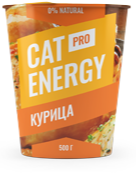
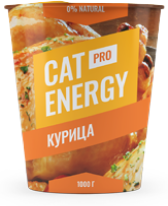
изменяет размеры карточек в каталоге

diff --git a/source/catalog.html b/source/catalog.html
@@ -5,6 +5,11 @@
   <meta charset="UTF-8">
   <title>Cat-energy</title>
   <meta name="viewport" content="width=device-width,initial-scale=1">
+  <link rel="icon" href="favicon.ico">
+  <link rel="icon" href="favicons/icon.svg" type="image/svg+xml">
+  <link rel="icon" href="favicons/favicon-32x32.png" type="image/png" sizes="32x32">
+  <link rel="apple-touch-icon" href="favicons/favicon-180x180.png" type="image/png" sizes="180x180">
+  <link rel="manifest" href="manifest.webmanifest">
   <link rel="stylesheet" href="styles/styles.css">
   <script src="scripts/index.js" defer></script>
 </head>
@@ -14,8 +19,16 @@
     <nav class="navigation">
       <div class="navigation__wrapper">
         <a class="navigation__logo" href="#">
-          <img class="navigation__logo-image" src="#" width="33" height="38" alt="Графический логотип компании Cat-energy">
-          <img class="navigation__logo-text" width="101" height="18" src="#" alt="Словесный логотип компании Cat-energy">
+          <picture>
+            <source type="image/svg+xml" media="(min-width: 1440px)" width="70" height="59" srcset="images/logo/logo-desktop.svg">
+            <source type="image/svg+xml" media="(min-width: 768px)" width="60" height="50" srcset="images/logo/logo-tablet.svg">
+            <img class="navigation__logo-image" src="images/logo/logo-mobile.svg" width="33" height="38" alt="Графический логотип компании Cat-energy">
+          </picture>
+          <picture>
+            <source type="image/svg+xml" media="(min-width: 1440px)" width="118" height="21" srcset="images/logo/logo-tablet-text.svg">
+            <source type="image/svg+xml" media="(min-width: 768px)" width="101" height="18" srcset="images/logo/logo-tablet-text.svg">
+            <img class="navigation__logo-image" src="images/logo/logo-mobile-text.svg" width="101" height="18" alt="Графический логотип компании Cat-energy">
+          </picture>
         </a>
         <button class="navigation__toogle" type="button">
           <span class="visually-hidden">Переключить меню</span>
@@ -41,7 +54,11 @@
       <ul class="product__list">
         <li class="product__item">
           <a class="product__link" href="#">
-            <img class="product__image" width="68" height="86" src="#" alt="cat-energy со вкусом курицы, вес 500 грамм">
+            <picture>
+              <source type="image/png" media="(min-width: 1440px)" width="161" height="172" srcset="images/catalog-items/chiken-500-tablet-desktop@1x.png 1x, images/catalog-items/chiken-500-tablet-desktop@2x.png 2x">
+              <source type="image/png" media="(min-width: 768px)" width="161" height="172" srcset="images/catalog-items/chiken-500-tablet-desktop@1x.png 1x, images/catalog-items/chiken-500-tablet-desktop@2x.png 2x">
+              <img class="product__image" src="images/catalog-items/chiken-500-mobile@1x.png" srcset="images/catalog-items/chiken-500-mobile@2x.png 2x" width="68" height="86" alt="cat-energy со вкусом курицы, вес 500 грамм">
+            </picture>
           </a>
           <div class="product__wrapper">
             <a class="product__link" href="#">
@@ -62,7 +79,11 @@
         </li>
         <li class="product__item">
           <a class="product__link" href="#">
-            <img class="product__image" width="84" height="100" src="#" alt="cat-energy со вкусом курицы, вес 1000 грамм">
+            <picture>
+              <source type="image/png" media="(min-width: 1440px)" width="172" height="196" srcset="images/catalog-items/chiken-1000-tablet-desktop@1x.png 1x, images/catalog-items/chiken-1000-tablet-desktop@2x.png 2x">
+              <source type="image/png" media="(min-width: 768px)" width="168" height="206" srcset="images/catalog-items/chiken-1000-tablet-desktop@1x.png 1x, images/catalog-items/chiken-1000-tablet-desktop@2x.png 2x">
+              <img class="product__image" src="images/catalog-items/chiken-1000-mobile@1x.png" srcset="images/catalog-items/chiken-1000-mobile@2x.png 2x" width="84" height="100" alt="cat-energy со вкусом курицы, вес 1000 грамм">
+            </picture>
           </a>
           <div class="product__wrapper">
             <a class="product__link" href="#">
@@ -83,7 +104,11 @@
         </li>
         <li class="product__item">
           <a class="product__link" href="#">
-            <img class="product__image" width="68" height="86" src="#" alt="cat-energy со вкусом рыбы, вес 500 грамм">
+            <picture>
+              <source type="image/png" media="(min-width: 1440px)" width="163" height="174" srcset="images/catalog-items/fish-500-tablet-desktop@1x.png 1x, images/catalog-items/fish-500-tablet-desktop@2x.png 2x">
+              <source type="image/png" media="(min-width: 768px)" width="163" height="174" srcset="images/catalog-items/fish-500-tablet-desktop@1x.png 1x, images/catalog-items/fish-500-tablet-desktop@2x.png 2x">
+              <img class="product__image" src="images/catalog-items/fish-500-mobile@1x.png" srcset="images/catalog-items/fish-500-mobile@2x.png 2x" width="68" height="86" alt="cat-energy со вкусом рыбы, вес 500 грамм">
+            </picture>
           </a>
           <div class="product__wrapper">
             <a class="product__link" href="#">
@@ -104,7 +129,11 @@
         </li>
         <li class="product__item">
           <a class="product__link" href="#">
-            <img class="product__image" width="84" height="100" src="#" alt="cat-energy со вкусом рыбы, вес 1000 грамм">
+            <picture>
+              <source type="image/png" media="(min-width: 1440px)" width="172" height="196" srcset="images/catalog-items/fish-1000-tablet-desktop@1x.png 1x, images/catalog-items/fish-1000-tablet-desktop@2x.png 2x">
+              <source type="image/png" media="(min-width: 768px)" width="168" height="200" srcset="images/catalog-items/fish-1000-tablet-desktop@1x.png 1x, images/catalog-items/fish-1000-tablet-desktop@2x.png 2x">
+              <img class="product__image" src="images/catalog-items/fish-1000-mobile@1x.png" srcset="images/catalog-items/fish-1000-mobile@2x.png 2x" width="84" height="100" alt="cat-energy со вкусом рыбы, вес 500 грамм">
+            </picture>
           </a>
           <div class="product__wrapper">
             <a class="product__link" href="#">
@@ -125,7 +154,11 @@
         </li>
         <li class="product__item">
           <a class="product__link" href="#">
-            <img class="product__image" width="68" height="86" src="#" alt="cat-energy со вкусом гречки, вес 500 грамм">
+            <picture>
+              <source type="image/png" media="(min-width: 1440px)" width="161" height="171" srcset="images/catalog-items/buckwheat-500-tablet-desktop@1x.png 1x, images/catalog-items/buckwheat-500-tablet-desktop@2x.png 2x">
+              <source type="image/png" media="(min-width: 768px)" width="161" height="171" srcset="images/catalog-items/buckwheat-500-tablet-desktop@1x.png 1x, images/catalog-items/buckwheat-500-tablet-desktop@2x.png 2x">
+              <img class="product__image" src="images/catalog-items/buckwheat-500-mobile@1x.png" srcset="images/catalog-items/buckwheat-500-mobile@2x.png 2x" width="68" height="86" alt="cat-energy со вкусом гречки, вес 500 грамм">
+            </picture>
           </a>
           <div class="product__wrapper">
             <a class="product__link" href="#">
@@ -146,7 +179,11 @@
         </li>
         <li class="product__item">
           <a class="product__link" href="#">
-            <img class="product__image" width="84" height="100" src="#" alt="cat-energy со вкусом гречки, вес 1000 грамм">
+            <picture>
+              <source type="image/png" media="(min-width: 1440px)" width="172" height="196" srcset="images/catalog-items/buckwheat-1000-tablet-desktop@1x.png 1x, images/catalog-items/buckwheat-1000-tablet-desktop@2x.png 2x">
+              <source type="image/png" media="(min-width: 768px)" width="186" height="200" srcset="images/catalog-items/buckwheat-1000-tablet-desktop@1x.png 1x, images/catalog-items/buckwheat-1000-tablet-desktop@2x.png 2x">
+              <img class="product__image" src="images/catalog-items/buckwheat-1000-mobile@1x.png" srcset="images/catalog-items/buckwheat-1000-mobile@2x.png 2x" width="84" height="100" alt="cat-energy со вкусом гречки, вес 1000 грамм">
+            </picture>
           </a>
           <div class="product__wrapper">
             <a class="product__link" href="#">
@@ -165,7 +202,11 @@
         </li>
         <li class="product__item">
           <a class="product__link" href="#">
-            <img class="product__image" width="68" height="86" src="#" alt="cat-energy со вкусом риса, вес 500 грамм">
+            <picture>
+              <source type="image/png" media="(min-width: 1440px)" width="163" height="174" srcset="images/catalog-items/rice-500-tablet-desktop@1x.png 1x, images/catalog-items/rice-500-tablet-desktop@2x.png 2x">
+              <source type="image/png" media="(min-width: 768px)" width="163" height="174" srcset="images/catalog-items/rice-500-tablet-desktop@1x.png 1x, images/catalog-items/rice-500-tablet-desktop@2x.png 2x">
+              <img class="product__image" src="images/catalog-items/rice-500-mobile@1x.png" srcset="images/catalog-items/rice-500-mobile@2x.png 2x" width="68" height="86" alt="cat-energy со вкусом риса, вес 500 грамм">
+            </picture>
           </a>
           <div class="product__wrapper">
             <a class="product__link" href="#">

diff --git a/source/index.html b/source/index.html
@@ -8,7 +8,7 @@
   <link rel="icon" href="favicon.ico">
   <link rel="icon" href="favicons/icon.svg" type="image/svg+xml">
   <link rel="icon" href="favicons/favicon-32x32.png" type="image/png" sizes="32x32">
-  <link rel="apple-touch-icon" href="favicons/180.png" type="image/png" sizes="180x180">
+  <link rel="apple-touch-icon" href="favicons/favicon-180x180.png" type="image/png" sizes="180x180">
   <link rel="manifest" href="manifest.webmanifest">
   <link rel="stylesheet" href="styles/styles.css">
   <script src="scripts/index.js" defer></script>
@@ -18,11 +18,18 @@
   <header class="main-header">
     <nav class="navigation">
       <div class="navigation__wrapper">
-        <picture>
-          <a class="navigation__logo" href="#">
-            <img class="navigation__logo-image" src="source/images/logo/logo-mobile.svg" width="33" height="38" alt="Графический логотип компании Cat-energy">
-          </a>
-        </picture>
+        <a class="navigation__logo" href="#">
+          <picture>
+            <source type="image/svg+xml" media="(min-width: 1440px)" width="70" height="59" srcset="images/logo/logo-desktop.svg">
+            <source type="image/svg+xml" media="(min-width: 768px)" width="60" height="50" srcset="images/logo/logo-tablet.svg">
+            <img class="navigation__logo-image" src="images/logo/logo-mobile.svg" width="33" height="38" alt="Графический логотип компании Cat-energy">
+          </picture>
+          <picture>
+            <source type="image/svg+xml" media="(min-width: 1440px)" width="118" height="21" srcset="images/logo/logo-desktop.svg">
+            <source type="image/svg+xml" media="(min-width: 768px)" width="101" height="18" srcset="images/logo/logo-tablet-text.svg">
+            <img class="navigation__logo-image" src="images/logo/logo-mobile-text.svg" width="101" height="18" alt="Графический логотип компании Cat-energy">
+          </picture>
+        </a>
         <button class="navigation__toogle" type="button">
           <span class="visually-hidden">Переключить меню</span>
         </button>
@@ -47,7 +54,11 @@
           Функциональное питание для котов
         </h1>
         <p class="hero__slogan">Занялся собой? Займись котом!</p>
-        <img class="hero__image" src="#" width="280" height="270" alt="Питание для котов cat-energy со вкусом курицы">
+        <picture>
+          <source type="image/png" media="(min-width: 1440px)" width="552" height="499" srcset="images/hero-product/hero-product-desktop@1x.png 1x, images/hero-product/hero-product-desktop@2x.png 2x">
+          <source type="image/png" media="(min-width: 768px)" width="709" height="609" srcset="images/hero-product/hero-product-tablet@1x.png 1x, images/hero-product/hero-product-tablet@2x.png 2x">
+          <img class="hero__image" src="images/hero-product/hero-product-mobile@1x.png" srcset="images/hero-product/hero-product-mobile@2x.png 2x" width="280" height="270" alt="Питание для котов cat-energy со вкусом курицы">
+        </picture>
         <a class="hero__link button" href="#">подобрать программу</a>
       </div>
     </section>
@@ -105,7 +116,14 @@
         </dl>
         <p class="example__total">Затраты на питание: 15 000 РУБ.</p>
         <div class="slider">
-          <img class="slider__image" src="#" width="280" height="256" alt="сравнение вида кота до диеты и после">
+          <picture>
+            <source type="image/png" media="(min-width: 768px)" width="560" height="512" srcset="images/slider/slider-tablet-desktop-before@1x.png 1x, images/slider/slider-tablet-desktop-before@2x.png 2x">
+            <img class="slider__image" src="images/slider/slider-mobile-before@1x.png" srcset="images/slider/slider-mobile-before@2x.png 2x" width="280" height="256" alt="сравнение: вид кота до диеты - толстый">
+          </picture>
+          <picture>
+            <source type="image/png" media="(min-width: 768px)" width="560" height="512" srcset="images/slider/slider-tablet-desktop-after@1x.png 1x, images/slider/slider-tablet-desktop-after@2x.png 2x">
+            <img class="slider__image" src="images/slider/slider-mobile-after@1x.png" srcset="images/slider/slider-mobile-after@2x.png 2x" width="280" height="256" alt="сравнение: вид кота после диеты - худой">
+          </picture>
           <button class="slider__button" type="button">Посмотреть кота до и после
           </button>
         </div>
